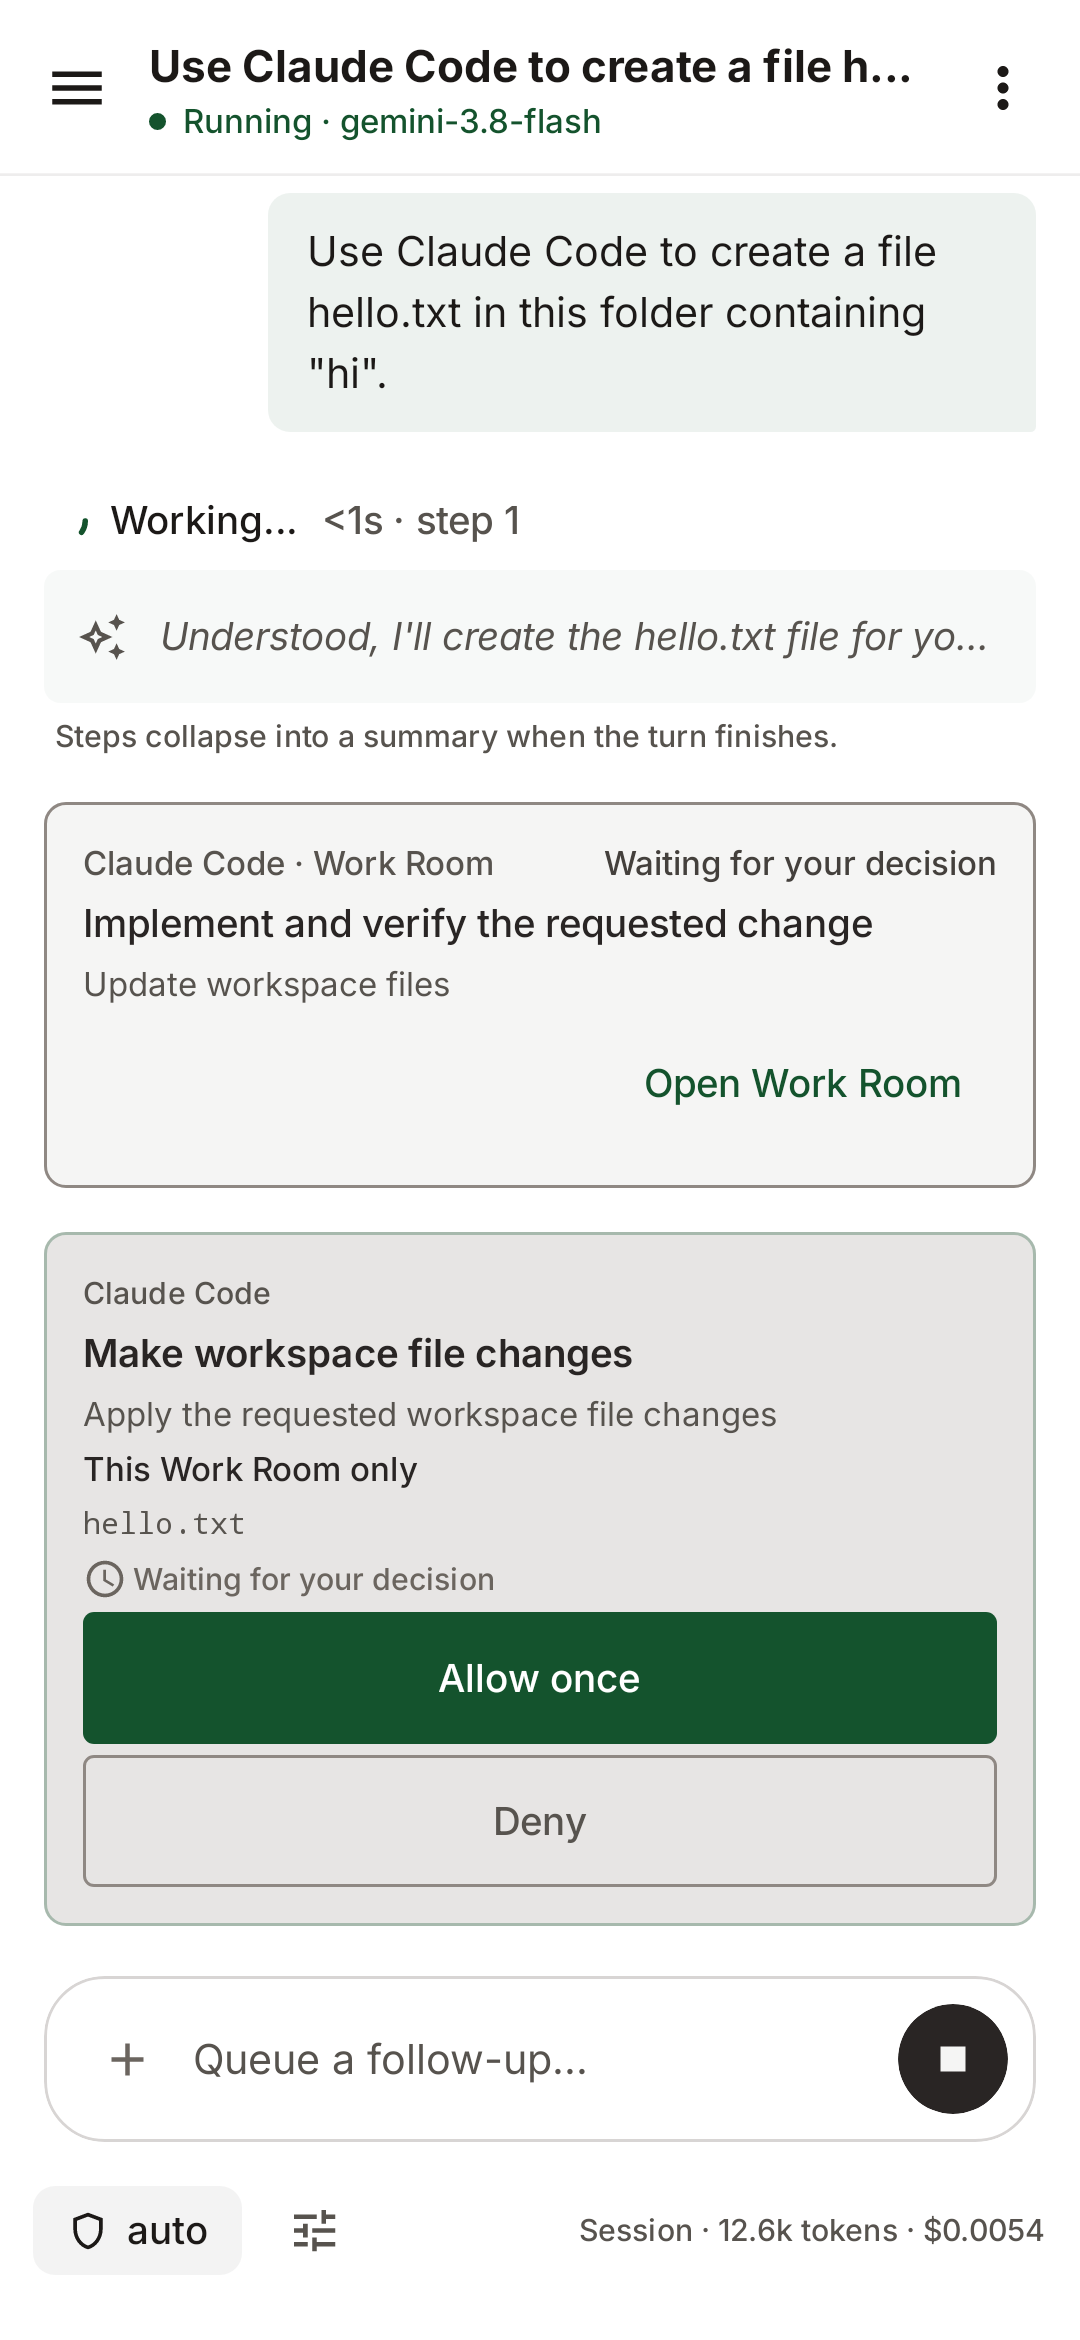
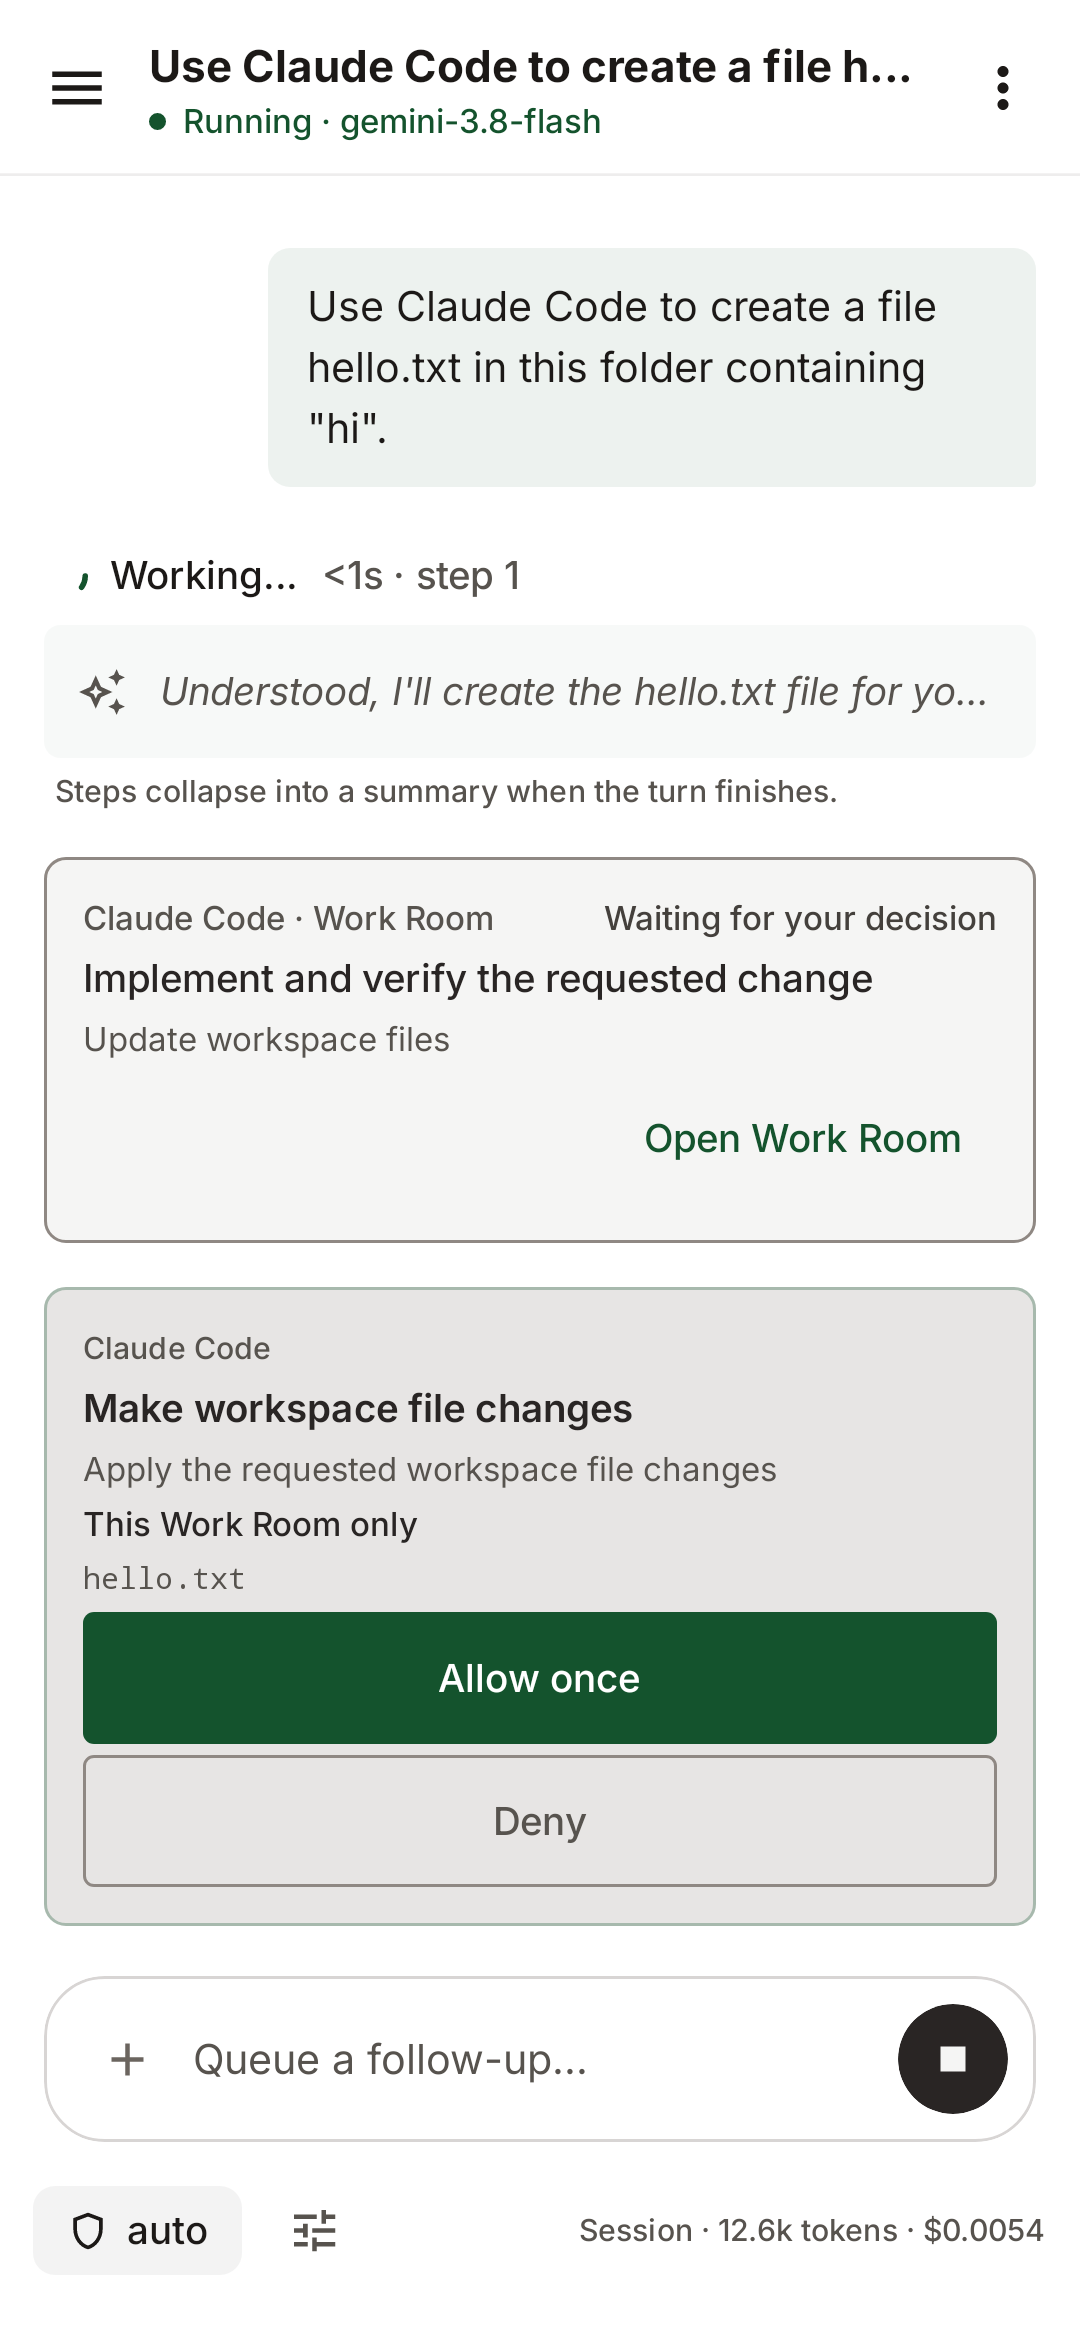
Merge branch 'W16AAPPLE-125-126-drawer-and-approval-text' into 'main'
Drop repeated waiting text and merge drawer agent counts

See merge request coursework/comp3900/26t3/capstone-projects/3900-w16a-apple/project!101

(cherry picked from commit 2658ed8e54f2c97c0e40d9103adeeff95abfe7af)

diff --git a/app/src/main/java/ai/openonion/oochat/ui/navigation/NavDrawer.kt b/app/src/main/java/ai/openonion/oochat/ui/navigation/NavDrawer.kt
@@ -263,37 +263,14 @@ fun NavDrawer(
                     style = MaterialTheme.typography.sectionLabel,
                     color = MaterialTheme.colorScheme.outline
                 )
-                Row(
-                    verticalAlignment = Alignment.CenterVertically,
-                    horizontalArrangement = Arrangement.spacedBy(MaterialTheme.spacing.xs)
-                ) {
-                    if (onlineCount > 0) {
-                        Text(
-                            text = "$onlineCount online",
-                            style = MaterialTheme.typography.labelSmall,
-                            fontWeight = FontWeight.SemiBold,
-                            color = MaterialTheme.colorScheme.primary,
-                            modifier = Modifier
-                                .clip(MaterialTheme.shapes.large)
-                                .background(MaterialTheme.colorScheme.primary.copy(alpha = 0.10f))
-                                .border(
-                                    BorderStroke(1.dp, MaterialTheme.colorScheme.primary.copy(alpha = 0.25f)),
-                                    MaterialTheme.shapes.large
-                                )
-                                .padding(horizontal = 6.dp, vertical = 1.dp)
-                        )
-                    }
-                    Text(
-                        text = "${agentSections.size}",
-                        style = MaterialTheme.typography.labelSmall,
-                        fontWeight = FontWeight.Bold,
-                        color = MaterialTheme.colorScheme.outline,
-                        modifier = Modifier
-                            .clip(MaterialTheme.shapes.small)
-                            .background(MaterialTheme.colorScheme.surfaceVariant)
-                            .padding(horizontal = 7.dp, vertical = 1.dp)
-                    )
-                }
+                // One count, in words: "2 of 5 online", or just the total when none are.
+                val total = agentSections.size
+                Text(
+                    text = if (onlineCount > 0) "$onlineCount of $total online" else "$total",
+                    style = MaterialTheme.typography.labelSmall,
+                    fontWeight = FontWeight.SemiBold,
+                    color = if (onlineCount > 0) MaterialTheme.colorScheme.primary else MaterialTheme.colorScheme.outline
+                )
             }
 
             if (agentSections.isEmpty()) {

diff --git a/app/src/test/java/ai/openonion/oochat/ui/navigation/NavDrawerComposeTest.kt b/app/src/test/java/ai/openonion/oochat/ui/navigation/NavDrawerComposeTest.kt
@@ -1,8 +1,11 @@
 package ai.openonion.oochat.ui.navigation
 
+import ai.openonion.oochat.domain.model.AgentStatus
 import ai.openonion.oochat.domain.model.ThemeMode
 import ai.openonion.oochat.ui.theme.ConnectOnionTheme
+import androidx.compose.ui.test.assertCountEquals
 import androidx.compose.ui.test.junit4.createComposeRule
+import androidx.compose.ui.test.onAllNodesWithText
 import androidx.compose.ui.test.onNodeWithText
 import org.junit.Rule
 import org.junit.Test
@@ -25,11 +28,11 @@ class NavDrawerComposeTest {
     @get:Rule
     val composeRule = createComposeRule()
 
-    private fun setDrawer() {
+    private fun setDrawer(sections: List<DrawerAgentSection> = emptyList()) {
         composeRule.setContent {
             ConnectOnionTheme {
                 NavDrawer(
-                    agentSections = emptyList(),
+                    agentSections = sections,
                     activeEntryId = null,
                     themeMode = ThemeMode.SYSTEM,
                     onNewChatForAgent = {},
@@ -58,5 +61,24 @@ class NavDrawerComposeTest {
         setDrawer()
 
         composeRule.onNodeWithText("Balance").assertDoesNotExist()
+    }
+
+    private fun section(id: String, status: AgentStatus) =
+        DrawerAgentSection(id, "0x" + id.repeat(32), id, status, emptyList())
+
+    @Test
+    fun `the agent count is one label that says how many are online`() {
+        setDrawer(listOf(section("a", AgentStatus.Active), section("b", AgentStatus.Connected), section("c", AgentStatus.Disabled)))
+
+        composeRule.onNodeWithText("2 of 3 online").assertExists()
+        composeRule.onAllNodesWithText("3").assertCountEquals(0)
+    }
+
+    @Test
+    fun `with none online the header shows only the total`() {
+        setDrawer(listOf(section("a", AgentStatus.Disabled), section("b", AgentStatus.Disabled)))
+
+        composeRule.onNodeWithText("2").assertExists()
+        composeRule.onAllNodesWithText("0 of 2 online").assertCountEquals(0)
     }
 }

diff --git a/app/src/main/java/ai/openonion/oochat/ui/workroom/WorkRoomApprovalCard.kt b/app/src/main/java/ai/openonion/oochat/ui/workroom/WorkRoomApprovalCard.kt
@@ -7,23 +7,17 @@ import ai.openonion.oochat.ui.theme.spacing
 import androidx.compose.foundation.BorderStroke
 import androidx.compose.foundation.layout.Arrangement
 import androidx.compose.foundation.layout.Column
-import androidx.compose.foundation.layout.Row
 import androidx.compose.foundation.layout.fillMaxWidth
 import androidx.compose.foundation.layout.heightIn
 import androidx.compose.foundation.layout.padding
-import androidx.compose.foundation.layout.size
-import androidx.compose.material.icons.Icons
-import androidx.compose.material.icons.filled.Schedule
 import androidx.compose.material3.Button
 import androidx.compose.material3.Card
 import androidx.compose.material3.CardDefaults
-import androidx.compose.material3.Icon
 import androidx.compose.material3.MaterialTheme
 import androidx.compose.material3.OutlinedButton
 import androidx.compose.material3.Text
 import androidx.compose.material3.TextButton
 import androidx.compose.runtime.Composable
-import androidx.compose.ui.Alignment
 import androidx.compose.ui.Modifier
 import androidx.compose.ui.semantics.LiveRegionMode
 import androidx.compose.ui.semantics.liveRegion
@@ -90,10 +84,7 @@ internal fun WorkRoomApprovalCard(
                 return@Column
             }
 
-            Row(verticalAlignment = Alignment.CenterVertically, horizontalArrangement = Arrangement.spacedBy(MaterialTheme.spacing.xxs)) {
-                Icon(Icons.Default.Schedule, contentDescription = null, tint = MaterialTheme.colorScheme.outline, modifier = Modifier.size(16.dp))
-                Text("Waiting for your decision", style = MaterialTheme.typography.labelSmall, color = MaterialTheme.colorScheme.outline)
-            }
+            // No "Waiting for your decision" line here: the run's status already says it.
             WorkRoomText.approvalDenyOnly(approval)?.let {
                 Text(it, style = MaterialTheme.typography.bodySmall, color = MaterialTheme.colorScheme.onSurfaceVariant)
             }

diff --git a/app/src/test/java/ai/openonion/oochat/ui/workroom/WorkRoomApprovalComposeTest.kt b/app/src/test/java/ai/openonion/oochat/ui/workroom/WorkRoomApprovalComposeTest.kt
@@ -8,8 +8,10 @@ import ai.openonion.oochat.domain.model.ProviderInvocationStatus
 import ai.openonion.oochat.domain.model.WorkRoomApproval
 import ai.openonion.oochat.ui.chat.components.ChatItemBubble
 import ai.openonion.oochat.ui.theme.ConnectOnionTheme
+import androidx.compose.ui.test.assertCountEquals
 import androidx.compose.ui.test.assertIsDisplayed
 import androidx.compose.ui.test.junit4.createComposeRule
+import androidx.compose.ui.test.onAllNodesWithText
 import androidx.compose.ui.test.onNodeWithText
 import androidx.compose.ui.test.performClick
 import androidx.compose.ui.test.performScrollTo
@@ -91,6 +93,13 @@ class WorkRoomApprovalComposeTest {
         composeRule.onNodeWithText("Allow once").performClick()
 
         assertEquals(listOf(Triple("req-1", true, "once")), decisions)
+    }
+
+    @Test
+    fun `an undecided room says it is waiting once, in the status line`() {
+        showRoom(approval())
+
+        composeRule.onAllNodesWithText("Waiting for your decision").assertCountEquals(1)
     }
 
     @Test

diff --git a/app/src/test/java/ai/openonion/oochat/ui/workroom/WorkRoomResizeComposeTest.kt b/app/src/test/java/ai/openonion/oochat/ui/workroom/WorkRoomResizeComposeTest.kt
@@ -128,8 +128,10 @@ class WorkRoomResizeComposeTest {
     private fun assertKept(anchorKey: String, widthNow: Dp) {
         composeRule.onNodeWithText("Use the existing SecondaryButton style").assertIsDisplayed()
         composeRule.onNodeWithText("Allow once").assertIsDisplayed()
-        // The step the room was at the top of is still on screen, whatever the new width.
-        composeRule.onNodeWithText("Step ${anchorKey.substringAfterLast('-')}").assertIsDisplayed()
+        // The room is still at the step it was at the top of, whatever the new width. That step can be
+        // a sliver under the list's top edge, so the step after it is what is checked on screen.
+        assertEquals(anchorKey, savedPosition.firstVisibleItemKey)
+        composeRule.onNodeWithText("Step ${anchorKey.substringAfterLast('-').toInt() + 1}").assertIsDisplayed()
         assertEquals(widthNow, composeRule.onNodeWithTag(WORK_ROOM_APPROVAL_DOCK_TAG).getBoundsInRoot().width)
     }
 
